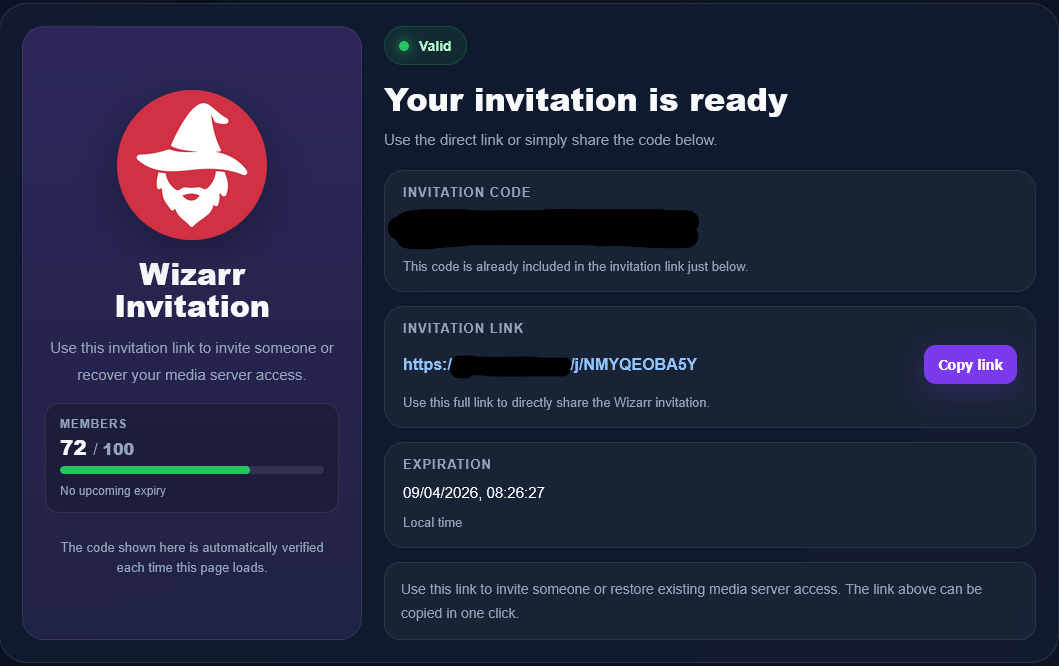
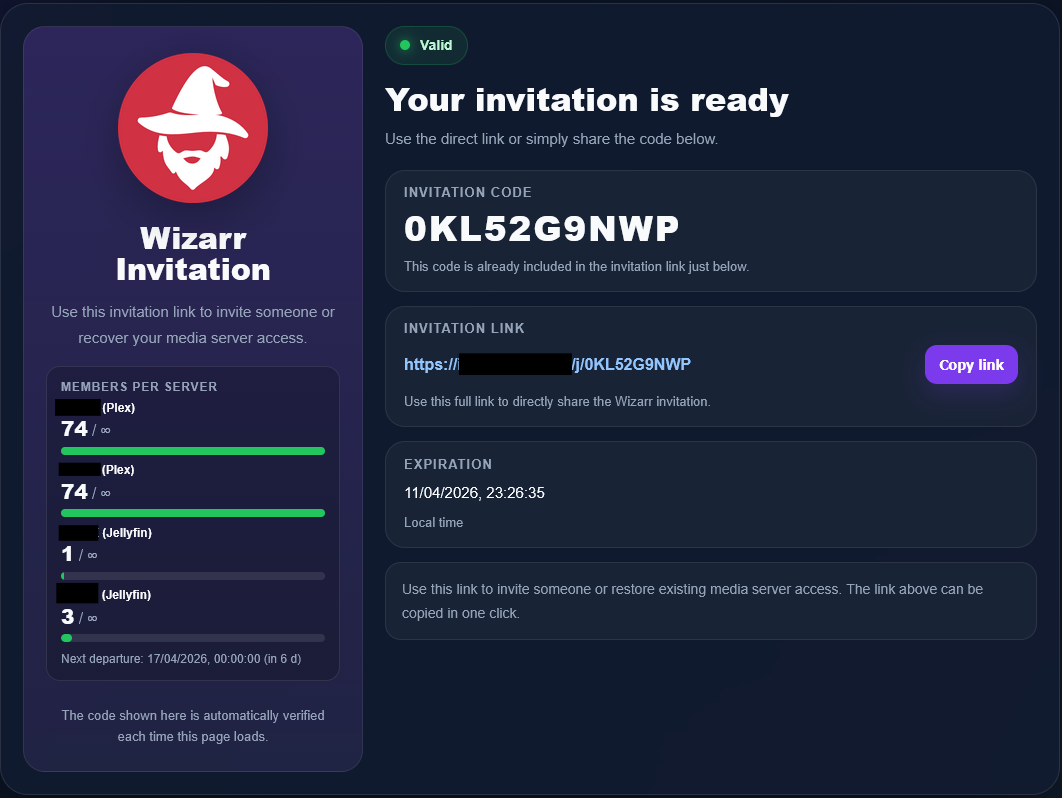
Update 2.1.0

diff --git a/display/default/display-en.php b/display/default/display-en.php
@@ -283,13 +283,13 @@ function renderUserCounter(stats) {
 				pct = maxSrvCount > 0 ? Math.round(c / maxSrvCount * 100) : 100;
 				cls = "";
 			}
-			rows += "<div style='margin-bottom:8px;'>";
-			rows += "<div style='font-size:12px; font-weight:700; margin-bottom:3px;'>" + escapeHtml(name) + "</div>";
-			rows += "<div class='user-counter-numbers'>";
-			rows += "<span class='uc-current'>" + (unavailable ? "-" : c) + "</span>";
-			rows += "<span class='uc-sep'> / </span><span class='uc-max'>" + (max !== null ? max : "∞") + "</span>";
+			rows += "<div style=\'margin-bottom:8px;\'>";
+			rows += "<div style=\'font-size:12px; font-weight:700; margin-bottom:3px;\'>" + escapeHtml(name) + "</div>";
+			rows += "<div class=\'user-counter-numbers\'>";
+			rows += "<span class=\'uc-current\'>" + (unavailable ? "-" : c) + "</span>";
+			rows += "<span class=\'uc-sep\'> / </span><span class=\'uc-max\'>" + (max !== null ? max : "∞") + "</span>";
 			rows += "</div>";
-			rows += "<div class='user-bar'><div class='user-bar-fill" + cls + "' style='width:" + pct + "%'></div></div>";
+			rows += "<div class=\'user-bar\'><div class=\'user-bar-fill" + cls + "\' style=\'width:" + pct + "%\'></div></div>";
 			rows += "</div>";
 		});
 

diff --git a/includes/plex_home.php b/includes/plex_home.php
@@ -7,7 +7,7 @@
 // fichier JSON séparé du cache users pour survivre aux vidages de cache.
 //
 // Fichier : wizarrinvite_plex_home.json
-// Format  : [{"id":"PH1","name":"Katsugami","servers":["NAS-K (Plex)","NAS-S (Plex)"]},...]
+// Format  : [{"id":"PH1","name":"Username","servers":["Server1 (Plex)","Server2 (Plex)"]},...]
 // ─────────────────────────────────────────────────────────────────────────────
 
 function wizarrinvite_plex_home_file()
